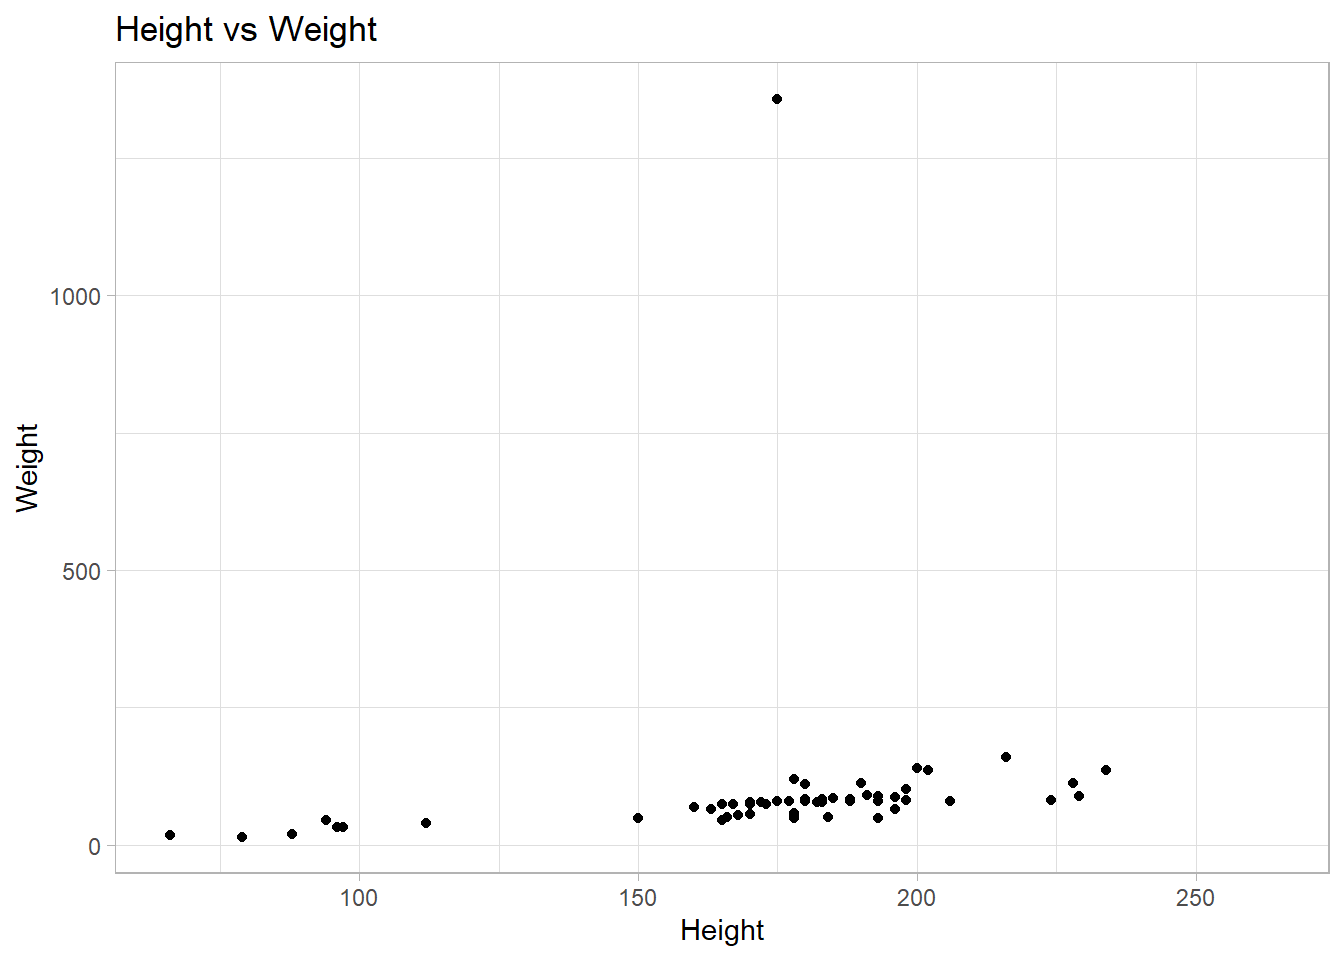
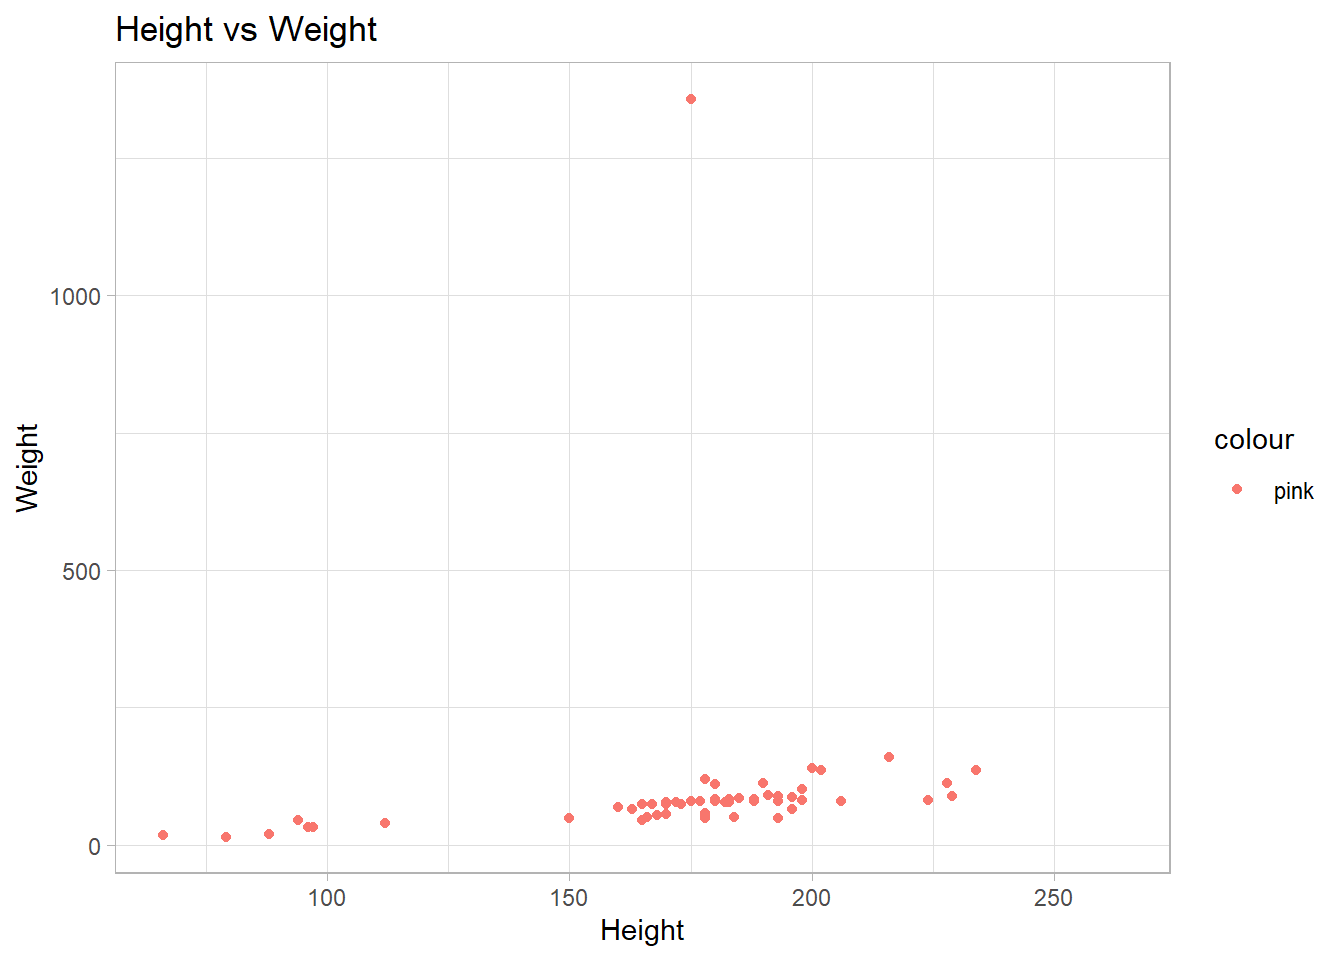
added some comments

diff --git a/eds212-day5-comp1.html b/eds212-day5-comp1.html
@@ -153,7 +153,7 @@ pre > code.sourceCode > span > a:first-child::before { text-decoration: underlin
 <details>
 <summary>show me the code!</summary>
 <div class="sourceCode cell-code" id="cb7"><pre class="sourceCode r code-with-copy"><code class="sourceCode r"><span id="cb7-1"><a href="#cb7-1" aria-hidden="true" tabindex="-1"></a><span class="co">#make a scatterplot of height vs weight</span></span>
-<span id="cb7-2"><a href="#cb7-2" aria-hidden="true" tabindex="-1"></a>height_weight_scatterplot <span class="ot">&lt;-</span> <span class="fu">ggplot</span>(<span class="at">data =</span> starwars, <span class="fu">aes</span>(<span class="at">x =</span> height, <span class="at">y =</span> mass)) <span class="sc">+</span> </span>
+<span id="cb7-2"><a href="#cb7-2" aria-hidden="true" tabindex="-1"></a>height_weight_scatterplot <span class="ot">&lt;-</span> <span class="fu">ggplot</span>(<span class="at">data =</span> starwars, <span class="fu">aes</span>(<span class="at">x =</span> height, <span class="at">y =</span> mass, <span class="at">color =</span> <span class="st">"pink"</span>)) <span class="sc">+</span> </span>
 <span id="cb7-3"><a href="#cb7-3" aria-hidden="true" tabindex="-1"></a>  <span class="fu">geom_point</span>() <span class="sc">+</span> </span>
 <span id="cb7-4"><a href="#cb7-4" aria-hidden="true" tabindex="-1"></a>  <span class="fu">labs</span>(<span class="at">x =</span> <span class="st">"Height"</span>, </span>
 <span id="cb7-5"><a href="#cb7-5" aria-hidden="true" tabindex="-1"></a>       <span class="at">y =</span> <span class="st">"Weight"</span>, </span>
@@ -165,6 +165,49 @@ pre > code.sourceCode > span > a:first-child::before { text-decoration: underlin
 <p><img src="eds212-day5-comp1_files/figure-html/unnamed-chunk-5-1.png" class="img-fluid" width="672"></p>
 </div>
 </div>
+</section>
+<section id="calculate-summary-statistics" class="level1">
+<h1>Calculate summary statistics</h1>
+<section id="use-mean-function-to-find-means." class="level2">
+<h2 class="anchored" data-anchor-id="use-mean-function-to-find-means.">Use mean() function to find means.</h2>
+</section>
+<section id="use-sd-function-to-find-standard-deviations" class="level2">
+<h2 class="anchored" data-anchor-id="use-sd-function-to-find-standard-deviations">Use sd() function to find standard deviations</h2>
+<div class="cell">
+<details>
+<summary>show me the code!</summary>
+<div class="sourceCode cell-code" id="cb8"><pre class="sourceCode r code-with-copy"><code class="sourceCode r"><span id="cb8-1"><a href="#cb8-1" aria-hidden="true" tabindex="-1"></a>mean_height_test <span class="ot">&lt;-</span> <span class="fu">mean</span>(starwars)</span>
+<span id="cb8-2"><a href="#cb8-2" aria-hidden="true" tabindex="-1"></a><span class="co">#this does not work since there are a bunch of categories it can pull from</span></span>
+<span id="cb8-3"><a href="#cb8-3" aria-hidden="true" tabindex="-1"></a>mean_height <span class="ot">&lt;-</span> <span class="fu">mean</span>(starwars<span class="sc">$</span>height, <span class="at">na.rm =</span> <span class="cn">TRUE</span>)</span>
+<span id="cb8-4"><a href="#cb8-4" aria-hidden="true" tabindex="-1"></a><span class="co">#this will show me the mean of the characters heights in starwars</span></span>
+<span id="cb8-5"><a href="#cb8-5" aria-hidden="true" tabindex="-1"></a>  <span class="co">#na.rm keeps or removes the non exsisting values. true will remove, false will keep</span></span>
+<span id="cb8-6"><a href="#cb8-6" aria-hidden="true" tabindex="-1"></a>mean_height</span></code><button title="Copy to Clipboard" class="code-copy-button"><i class="bi"></i></button></pre></div>
+</details>
+<div class="cell-output cell-output-stdout">
+<pre><code>[1] 174.358</code></pre>
+</div>
+</div>
+</section>
+<section id="find-and-store-the-standard-deviation-of-character-heights" class="level2">
+<h2 class="anchored" data-anchor-id="find-and-store-the-standard-deviation-of-character-heights">Find and store the standard deviation of character heights</h2>
+<div class="cell">
+<details>
+<summary>show me the code!</summary>
+<div class="sourceCode cell-code" id="cb10"><pre class="sourceCode r code-with-copy"><code class="sourceCode r"><span id="cb10-1"><a href="#cb10-1" aria-hidden="true" tabindex="-1"></a>sd_height <span class="ot">&lt;-</span> <span class="fu">sd</span>(starwars<span class="sc">$</span>height, <span class="at">na.rm =</span> <span class="cn">TRUE</span>)</span>
+<span id="cb10-2"><a href="#cb10-2" aria-hidden="true" tabindex="-1"></a>sd_height</span></code><button title="Copy to Clipboard" class="code-copy-button"><i class="bi"></i></button></pre></div>
+</details>
+<div class="cell-output cell-output-stdout">
+<pre><code>[1] 34.77043</code></pre>
+</div>
+</div>
+</section>
+</section>
+<section id="in-line-reporting-using-code-outputs" class="level1">
+<h1>In-line reporting using code outputs</h1>
+<p>whats wrong with writing this: The mean height of star wars characters is 174.38 cm with a standard deviation of 34.8 cm.</p>
+<p>these values are manually typed out and cannot reflect change if the data gets changed</p>
+<p>instead, we should type it out like this: The mean height of star wars characters is 174.3580247 cm with a standard deviation of 34.8 cm.</p>
+<p>you use backticks to tell it to get the mean directly from the code</p>
 </section>
 
 </main>
